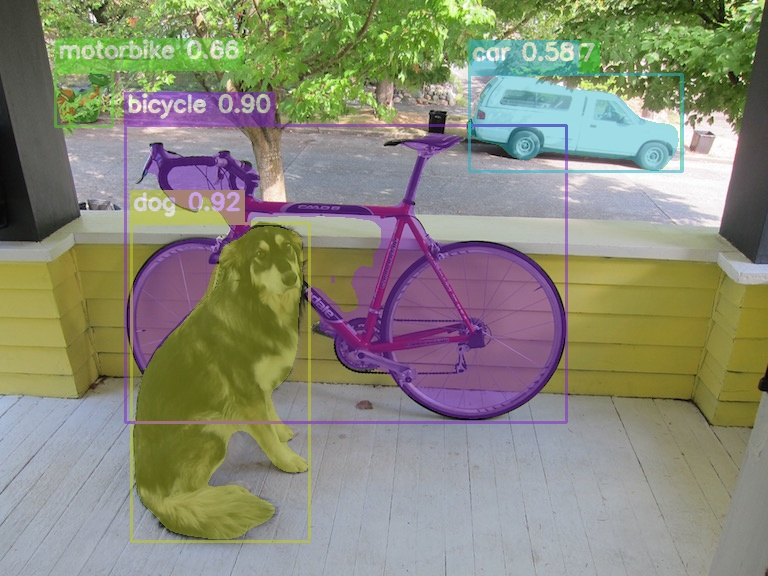
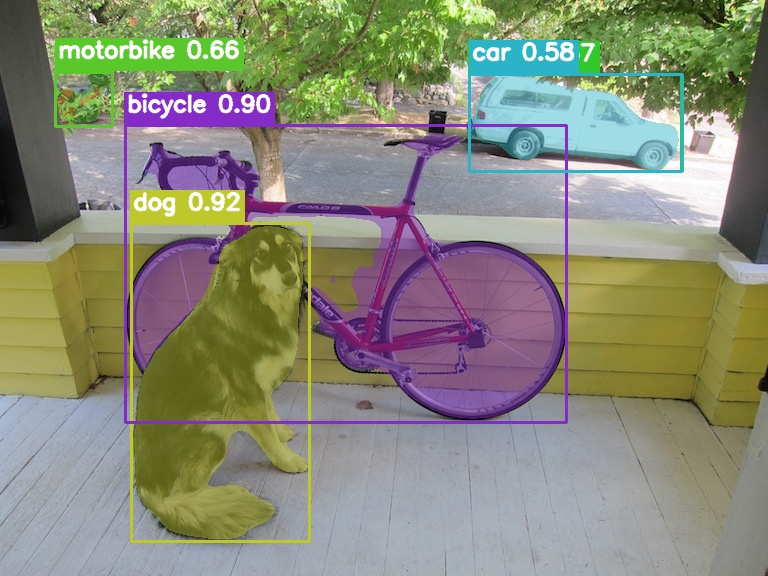
Draw annotations after mask blend so labels are fully opaque on segmentation output

Changed region(s): [[0.0625, 0.0625, 0.9062, 0.9375], [0.1875, 0.7812, 0.4062, 0.9688]]

diff --git a/src/edgecrafter_inference.cpp b/src/edgecrafter_inference.cpp
@@ -224,15 +224,22 @@ std::string EdgeCrafterInference::label_for(int class_id) const {
 }
 
 void EdgeCrafterInference::draw_results(cv::Mat &image, std::span<const Result> results) {
-    cv::Mat overlay = image.clone();
     constexpr double alpha = 0.45;
+    cv::Mat overlay;
+
+    if (config_.task_type == TaskType::SEGMENTATION) {
+        overlay = image.clone();
+        for (const auto &result : results) {
+            const cv::Scalar color = edgecrafter::processing::get_color_for_class(result.class_id);
+            if (!result.mask.empty() && result.mask.rows == image.rows && result.mask.cols == image.cols) {
+                overlay.setTo(color, result.mask);
+            }
+        }
+        cv::addWeighted(overlay, alpha, image, 1.0 - alpha, 0, image);
+    }
 
     for (const auto &result : results) {
         const cv::Scalar color = edgecrafter::processing::get_color_for_class(result.class_id);
-        if (!result.mask.empty() && result.mask.rows == image.rows && result.mask.cols == image.cols) {
-            overlay.setTo(color, result.mask);
-        }
-
         cv::Point2f p1(result.box[0], result.box[1]);
         cv::Point2f p2(result.box[2], result.box[3]);
         cv::rectangle(image, p1, p2, color, 2);
@@ -250,10 +257,6 @@ void EdgeCrafterInference::draw_results(cv::Mat &image, std::span<const Result> 
             edgecrafter::processing::draw_keypoints(
                 image, result.keypoints, edgecrafter::processing::coco_skeleton_edges(), config_.keypoint_threshold);
         }
-    }
-
-    if (config_.task_type == TaskType::SEGMENTATION) {
-        cv::addWeighted(overlay, alpha, image, 1.0 - alpha, 0, image);
     }
 }
 
